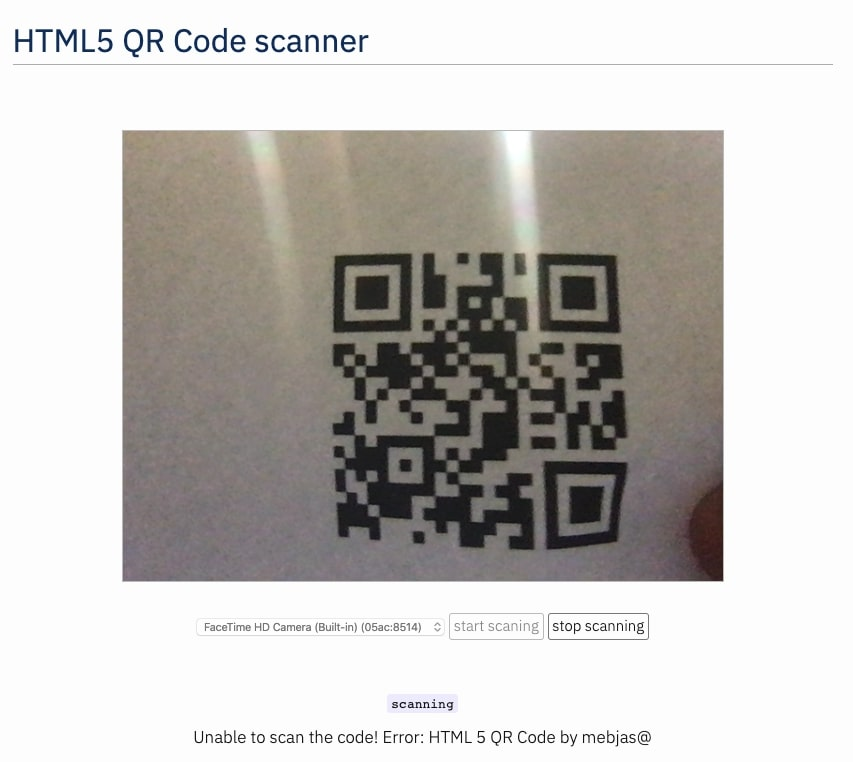
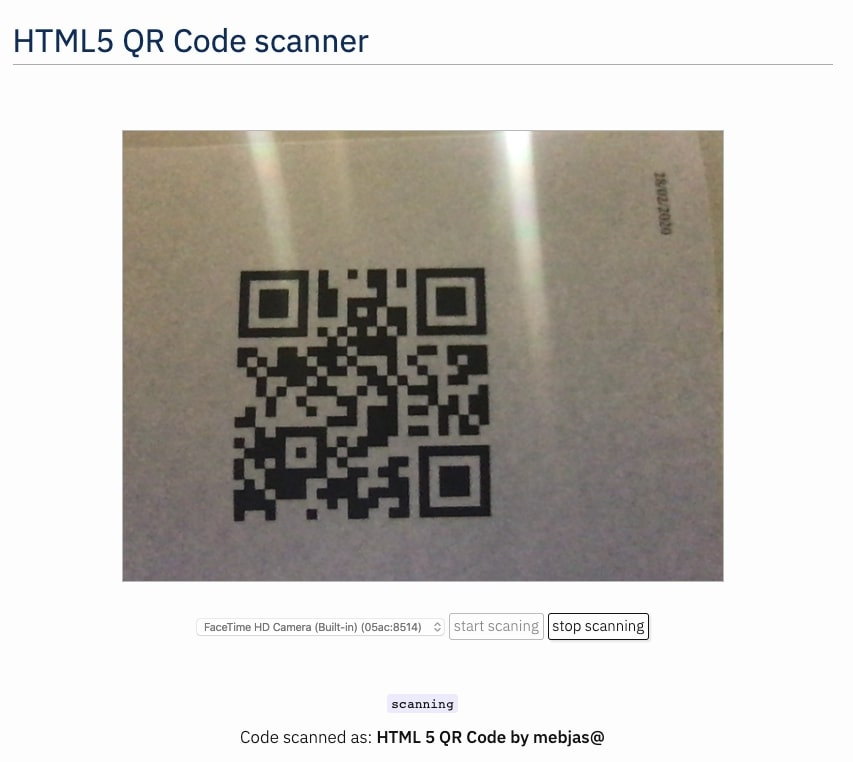
Updated code, readme and screenshots

diff --git a/minified/html5-qrcode.min.js b/minified/html5-qrcode.min.js
@@ -1,1 +1,1 @@
-!function(e){var t=2,a=2;function n(e){return 1e3/e}window.URL=window.URL||window.webkitURL||window.mozURL||window.msURL,navigator.getUserMedia=navigator.getUserMedia||navigator.webkitGetUserMedia||navigator.mozGetUserMedia||navigator.msGetUserMedia,jQuery.fn.extend({html5_qrcode:function(i,o,r,c,d){return this.each(function(){if(null==i)throw"cameraId is required";o="function"==typeof o?o:function(e){console.log("QR Code Success callback is undefined or not a function.")},r=r||function(e,i){},c="function"==typeof c?c:function(e){console.log("Error callback is undefined or not a function.",e)},(d=d||{}).fps=d.fps?d.fps:2;var s=e(this);s.html("");var u,f=null==s.height()?250:s.height(),v=null==s.width()?300:s.width(),l=e(function(e,i){return'<video width="'+e+'px" height="'+i+'px"></video>'}(v,f)).appendTo(s),h=e(function(e,i){return'<canvas id="qr-canvas" width="'+(e-a)+'px" height="'+(i-t)+'px" style="display:none;"></canvas>'}(v,f)).appendTo(s),g=l[0],p=h[0].getContext("2d"),m=function(){if(u){p.drawImage(g,0,0,v,f);try{qrcode.decode()}catch(e){r(e,u)}}e.data(s[0],"TIMEOUT_TAG",setTimeout(m,n(d.fps)))},T=function(i){g.srcObject=i,u=i,e.data(s[0],"STREAM_TAG",i),e.data(s[0],"TIMEOUT_TAG",setTimeout(m,n(d.fps))),g.play()};navigator.mediaDevices&&navigator.mediaDevices.getUserMedia?navigator.mediaDevices.getUserMedia({audio:!1,video:{deviceId:i}}).then(T).catch(T):navigator.getUserMedia?(qrcodeConfig={video:{optional:[{sourceId:i}]}},navigator.getUserMedia(qrcodeConfig,T,c)):c("Native web camera streaming (getUserMedia) not supported in this browser."),qrcode.callback=o})},html5_qrcode_stop:function(){return this.each(function(){e(this).data("STREAM_TAG").getVideoTracks().forEach(function(e){e.stop()}),e(this).children("video").remove(),e(this).children("canvas").remove(),clearTimeout(e(this).data("TIMEOUT_TAG"))})},html5_qrcode_getSupportedCameras:function(e,t){if("function"!=typeof e)throw"onSuccessCallback (1st argument) should be a function.";if(t="function"==typeof t?t:function(e){console.error("Unable to retreive supported cameras. Reason: ",e)},navigator.mediaDevices&&navigator.mediaDevices.enumerateDevices)navigator.mediaDevices.enumerateDevices().then(function(t){var a=[];for(i=0;i<t.length;i++){var n=t[i];"videoinput"==n.kind&&a.push({id:n.deviceId,label:n.label})}e(a)}).catch(function(e){t(e.name+": "+e.message)});else if("undefined"!=typeof MediaStreamTrack&&void 0!==MediaStreamTrack.getSources){MediaStreamTrack.getSources(function(t){var a=[];for(i=0;i!==t.length;++i){var n=t[i];"video"===n.kind&&a.push({id:n.id,label:n.label})}e(a)})}else t("unable to query supported devices.")}})}(jQuery);
+!function(g){var p="TIMEOUT_TAG",m="STREAM_TAG";function w(e){return 1e3/e}window.URL=window.URL||window.webkitURL||window.mozURL||window.msURL,navigator.getUserMedia=navigator.getUserMedia||navigator.webkitGetUserMedia||navigator.mozGetUserMedia||navigator.msGetUserMedia,jQuery.fn.extend({html5_qrcode:function(u,f,v,l,h){return this.each(function(){if(null==u)throw"cameraId is required";f="function"==typeof f?f:function(e){console.log("QR Code Success callback is undefined or not a function.")},v=v||function(e,i){},l="function"==typeof l?l:function(e){console.log("Error callback is undefined or not a function.",e)},(h=h||{}).fps=h.fps?h.fps:2;var i=g(this);i.html("");function e(e){c.srcObject=e,t=e,g.data(i[0],m,e),g.data(i[0],p,setTimeout(s,w(h.fps))),c.play()}var t,a=null==i.height()?250:i.height(),n=null==i.width()?300:i.width(),o=g('<video width="'+n+'px" height="'+a+'px"></video>').appendTo(i),r=g('<canvas id="qr-canvas" width="'+(n-2)+'px" height="'+(a-2)+'px" style="display:none;"></canvas>').appendTo(i),c=o[0],d=r[0].getContext("2d"),s=function(){if(t){d.drawImage(c,0,0,n,a);try{qrcode.decode()}catch(e){v(e,t)}}g.data(i[0],p,setTimeout(s,w(h.fps)))};navigator.mediaDevices&&navigator.mediaDevices.getUserMedia?navigator.mediaDevices.getUserMedia({audio:!1,video:{deviceId:{exact:u}}}).then(e).catch(e):navigator.getUserMedia?(qrcodeConfig={video:{optional:[{sourceId:u}]}},navigator.getUserMedia(qrcodeConfig,e,l)):l("Native web camera streaming (getUserMedia) not supported in this browser."),qrcode.callback=f})},html5_qrcode_stop:function(){return this.each(function(){g(this).data(m).getVideoTracks().forEach(function(e){e.stop()}),g(this).children("video").remove(),g(this).children("canvas").remove(),clearTimeout(g(this).data(p))})},html5_qrcode_getSupportedCameras:function(n,t){if("function"!=typeof n)throw"onSuccessCallback (1st argument) should be a function.";if(t="function"==typeof t?t:function(e){console.error("Unable to retreive supported cameras. Reason: ",e)},navigator.mediaDevices&&navigator.mediaDevices.enumerateDevices)navigator.mediaDevices.enumerateDevices().then(function(e){var t=[];for(i=0;i<e.length;i++){var a=e[i];"videoinput"==a.kind&&t.push({id:a.deviceId,label:a.label})}n(t)}).catch(function(e){t(e.name+": "+e.message)});else if("undefined"!=typeof MediaStreamTrack&&void 0!==MediaStreamTrack.getSources){MediaStreamTrack.getSources(function(e){var t=[];for(i=0;i!==e.length;++i){var a=e[i];"video"===a.kind&&t.push({id:a.id,label:a.label})}n(t)})}else t("unable to query supported devices.")}})}(jQuery);

diff --git a/html5-qrcode.js b/html5-qrcode.js
@@ -104,7 +104,7 @@
                 // Call the getUserMedia method with our callback functions
                 if (navigator.mediaDevices && navigator.mediaDevices.getUserMedia) {
                     navigator.mediaDevices.getUserMedia(
-                        { audio: false, video: { deviceId: cameraId }})
+                        { audio: false, video: { deviceId: { exact: cameraId}}})
                         .then(successCallback)
                         .catch(successCallback);
                 } else if (navigator.getUserMedia) {

diff --git a/README.md b/README.md
@@ -60,6 +60,10 @@ $('#reader').html5_qrcode_stop();
 
 ## Screenshots
 ![screenshot](screenshots/1.jpg)
+_Figure: Screenshot from Google Chrome running on Macbook Pro_
+
+<img src="screenshots/2.jpg" width="300"><br>
+_Figure: Screenshot from Google Chrome running on Android-based Pixel 3_
 
 ## Documentation
 Following methods are available in this library
